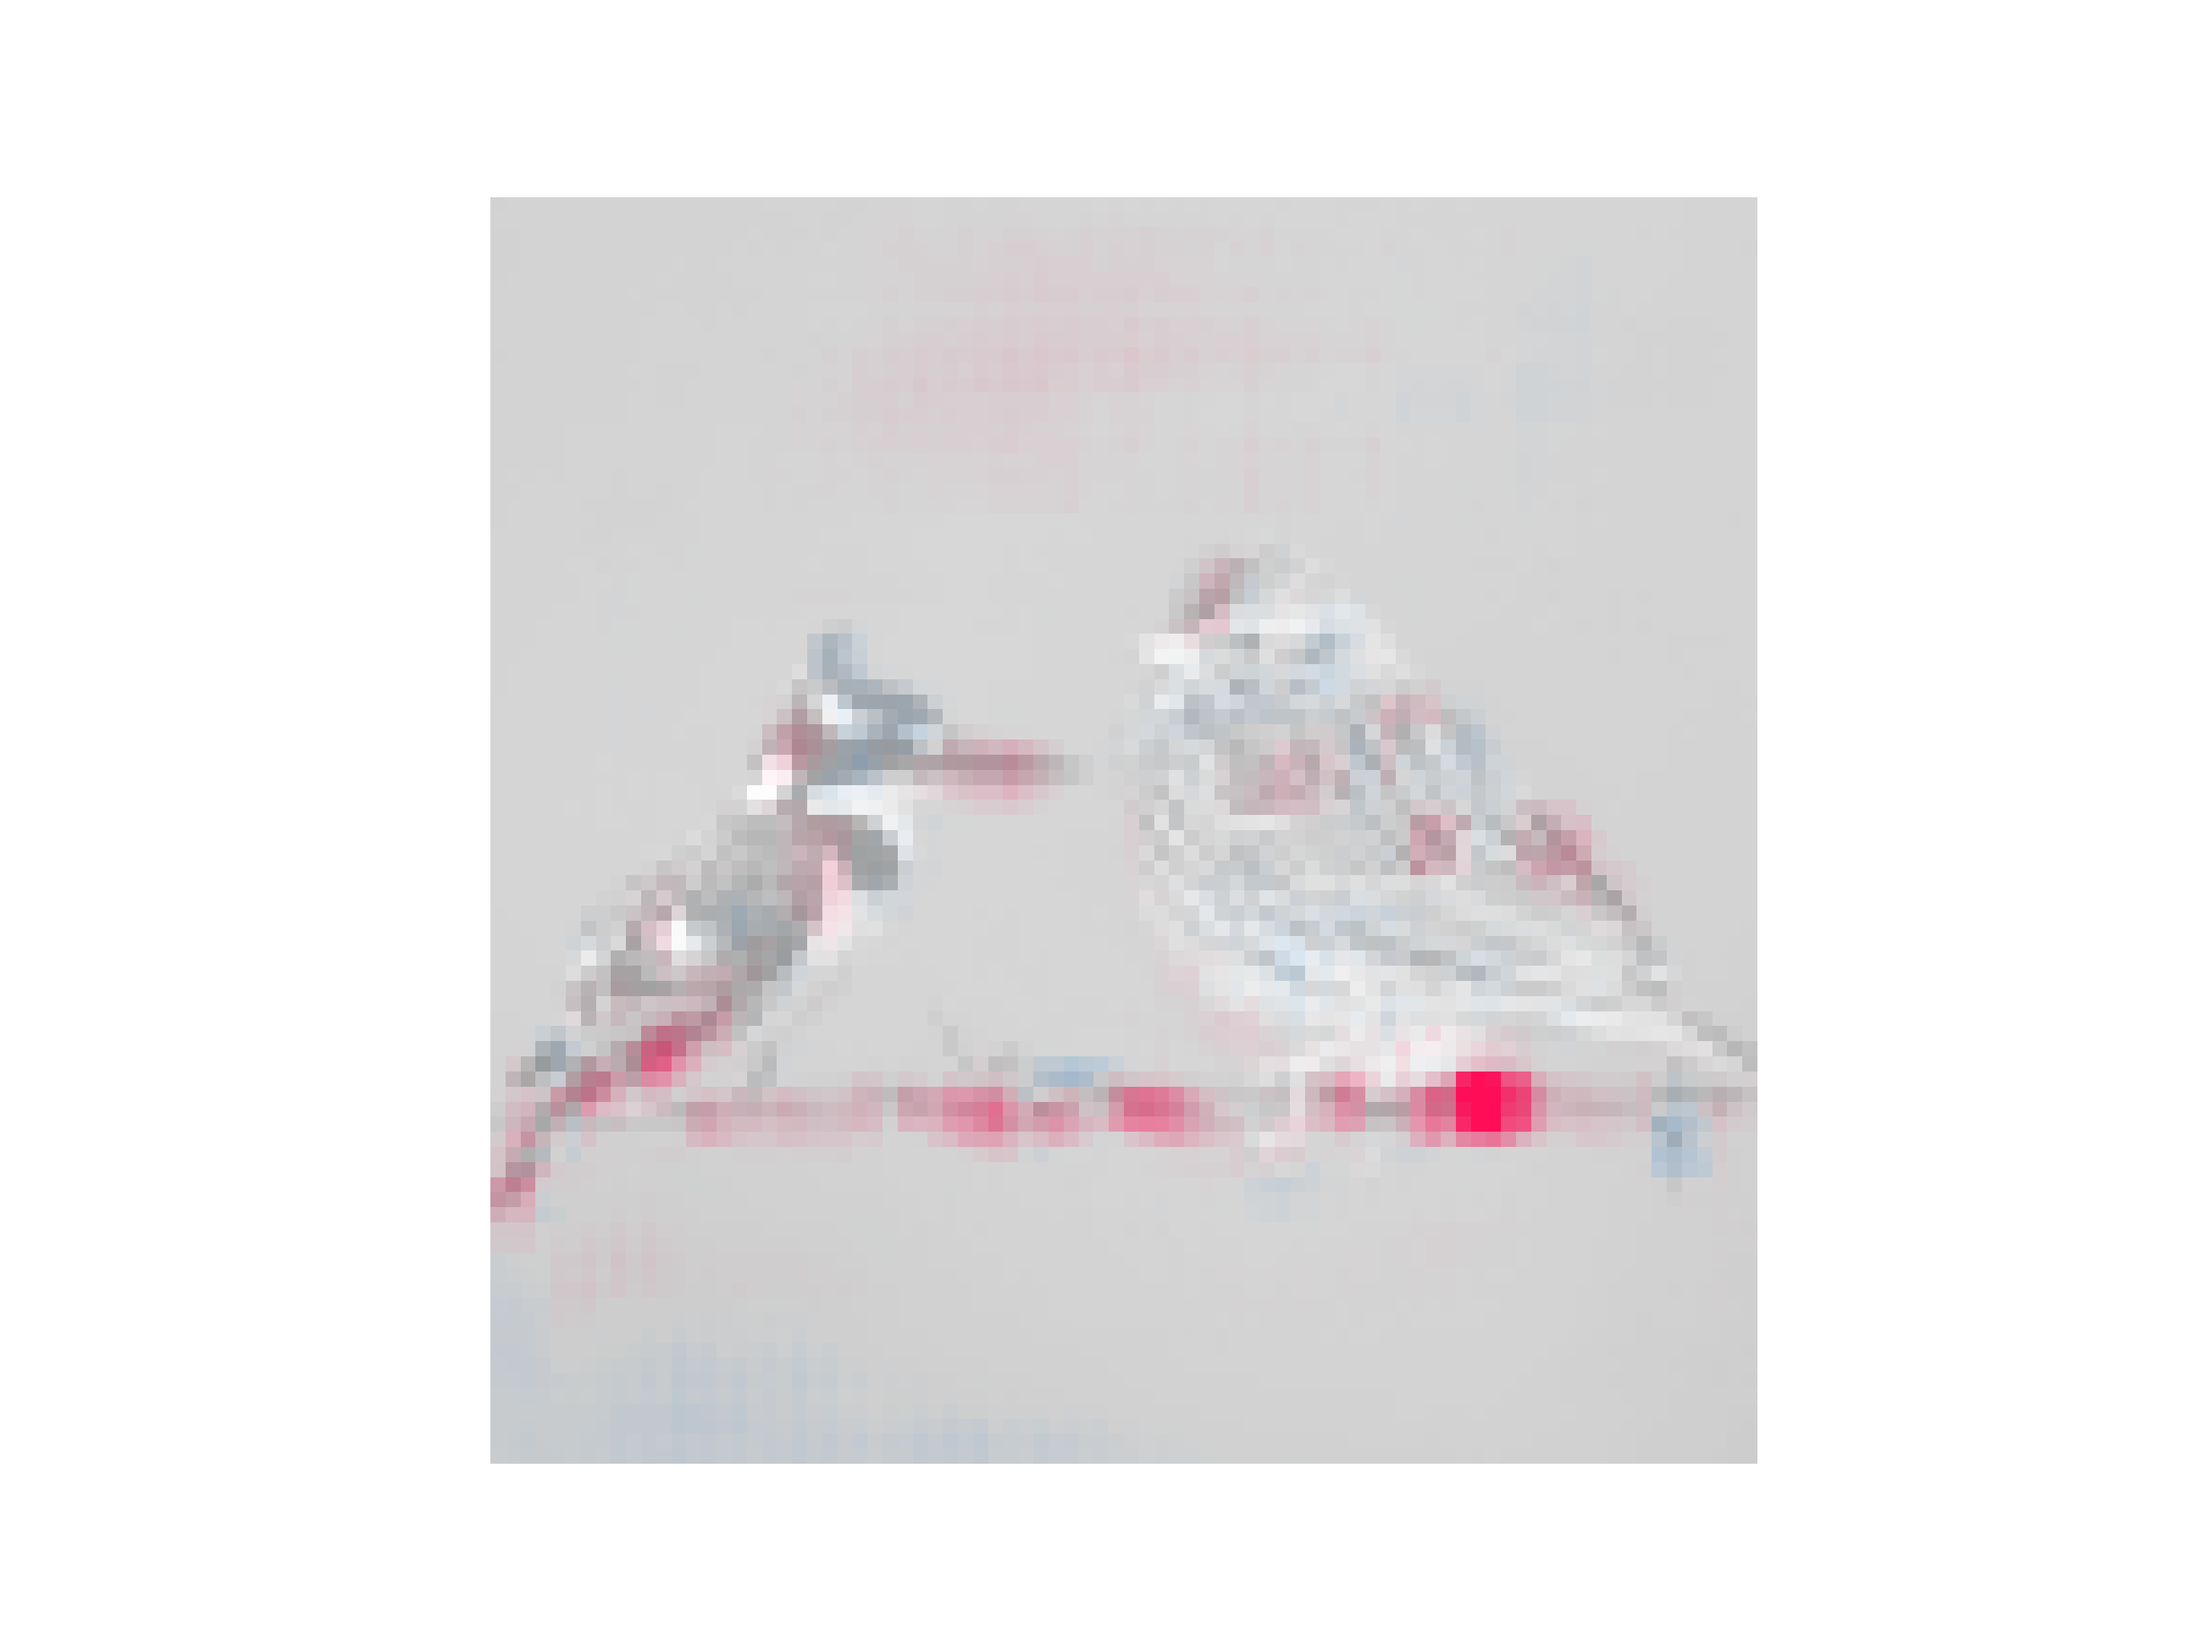
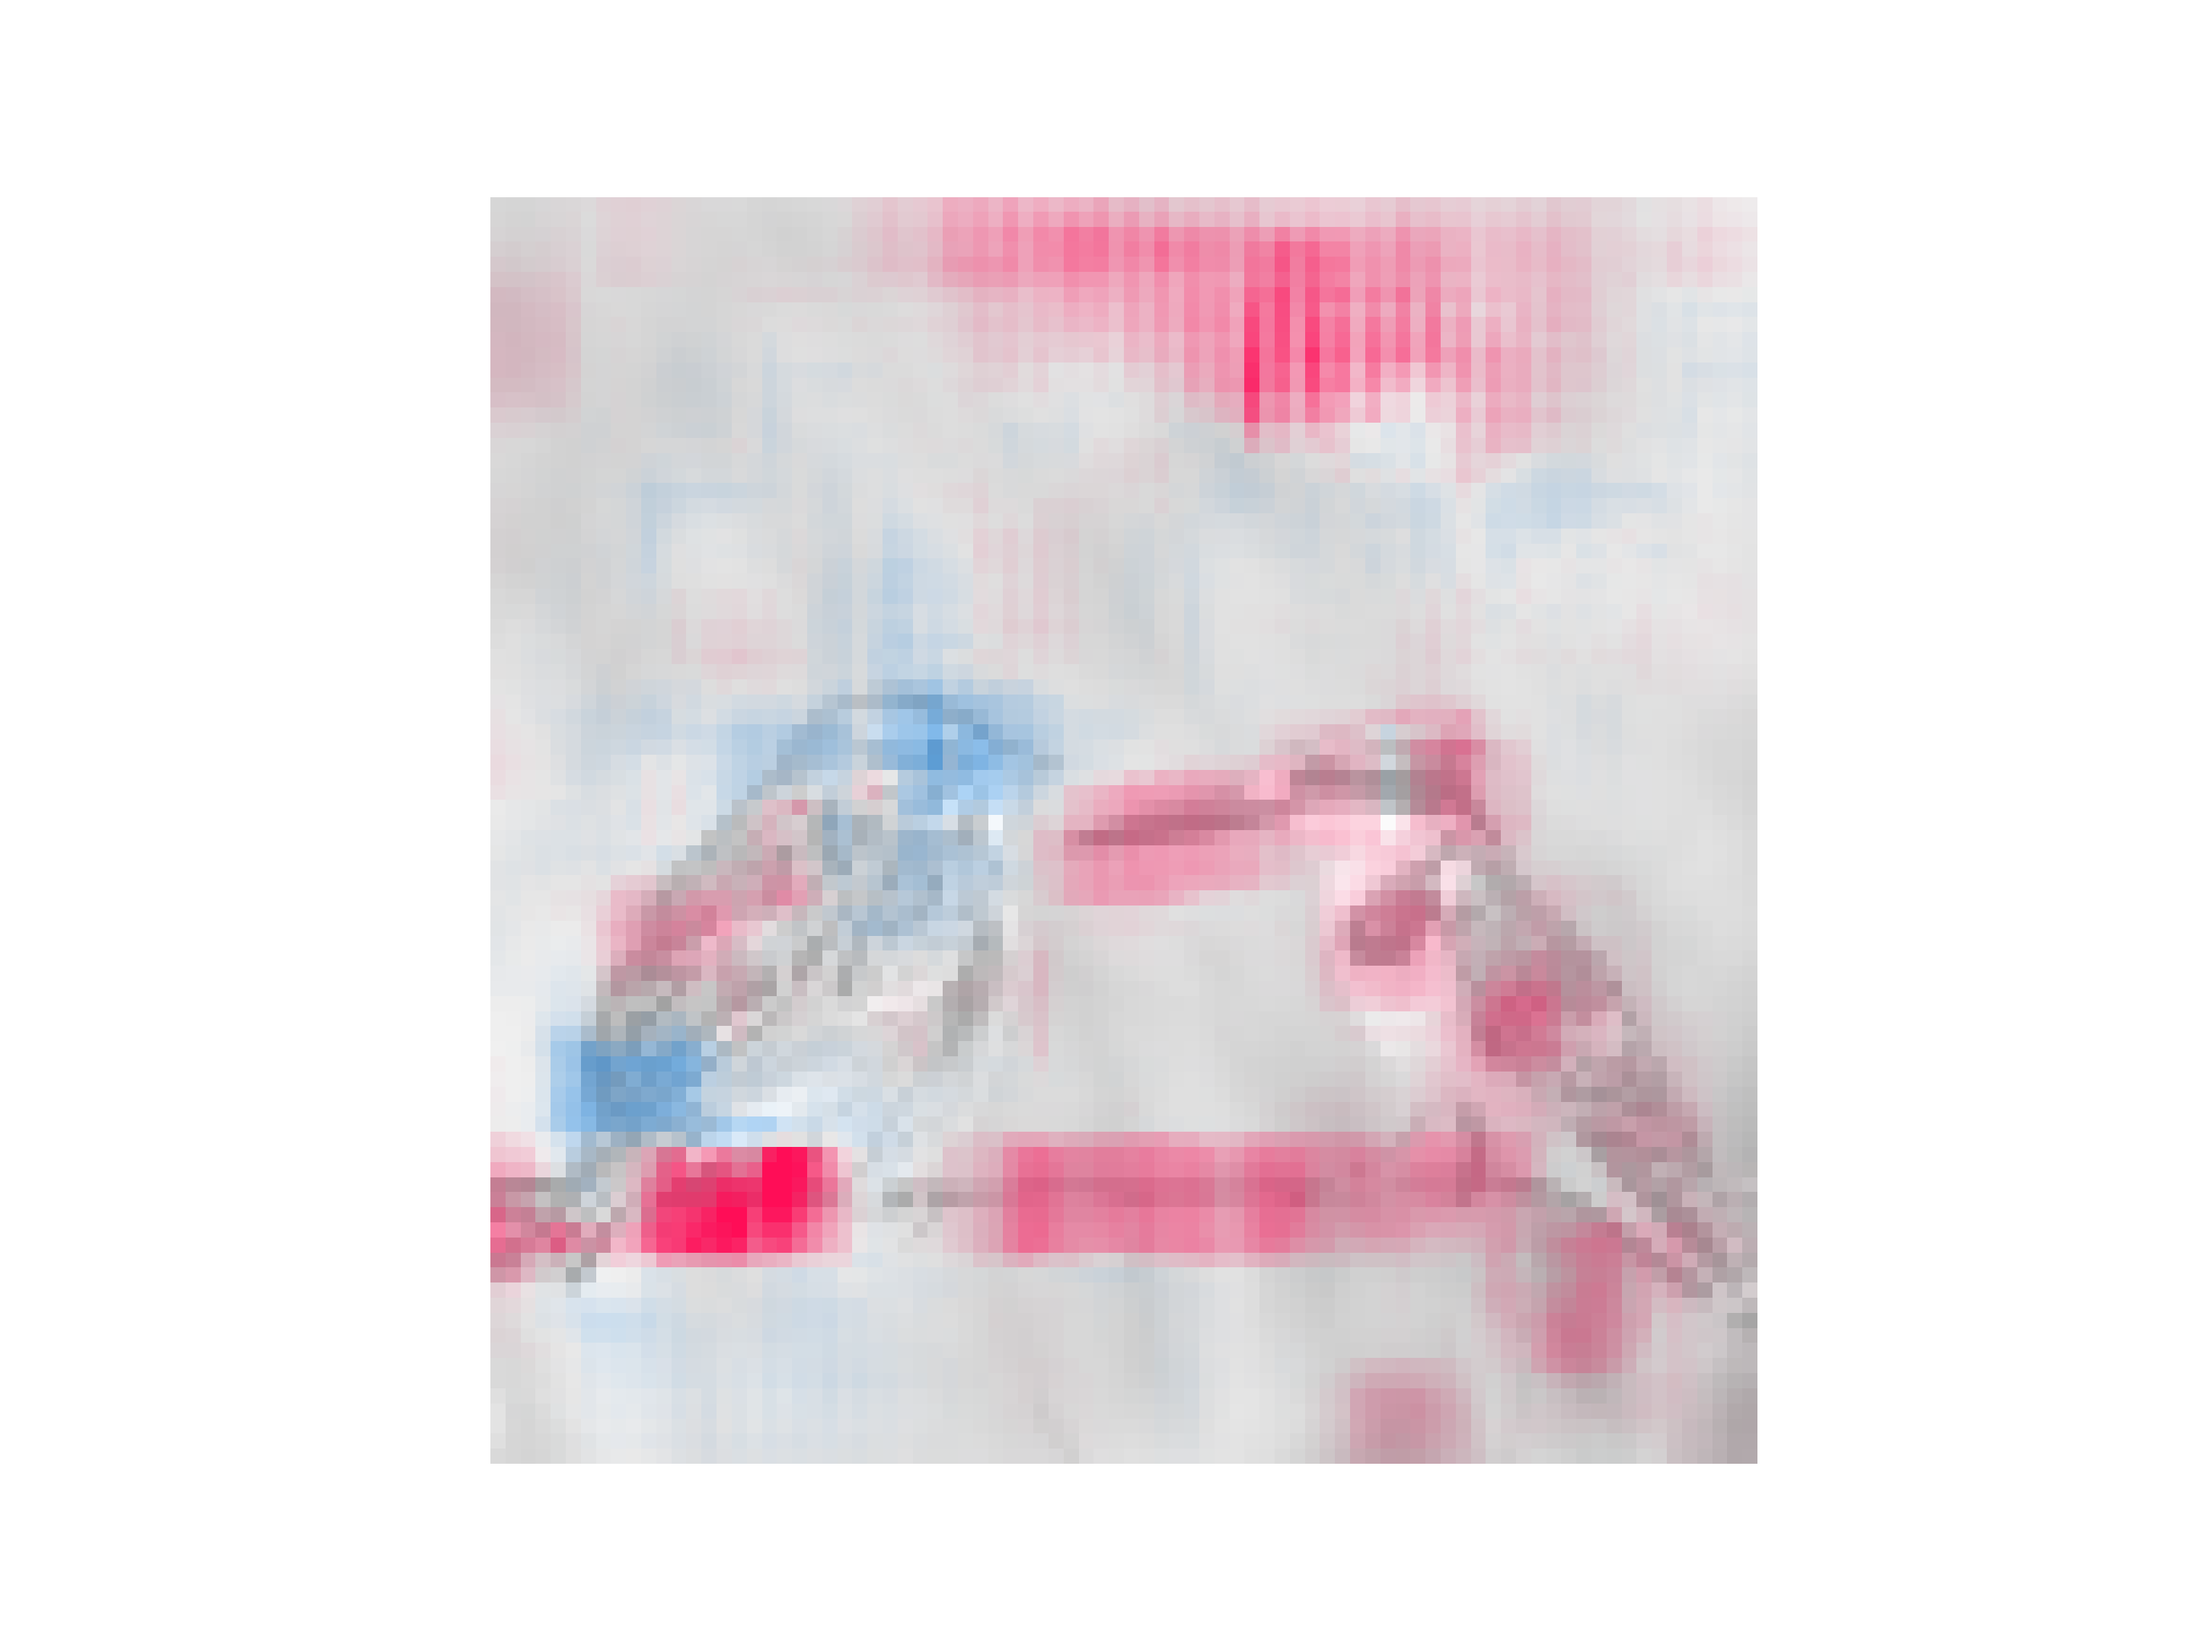
BIRDS.

diff --git a/testbed/miniImagenet_dogs_cars_birds.py b/testbed/miniImagenet_dogs_cars_birds.py
@@ -263,83 +263,83 @@ if __name__ == '__main__':
     exclude_support_data = np.concatenate(
         [support_data_target3, support_data_target4,
          support_data_target5], axis=0)
-    ### C3A XAI
-    ref_pixel = query_pickle[0, 0, 0, :]  # Average background pixel after preprocessing.
-    print(f'Average background pixel: {ref_pixel}')
-    c3a_xai = C3Amodel(base_model.encoder, feature_layer=feature_layer)
-    c3a_target1_scores, c3a_target2_scores = (c3a_xai.image_feature_attribution_c3a(
-        support_data_1=support_data_target1,
-        support_data_2=support_data_target2,
-        support_data_3=exclude_support_data,
-        query=query, ref_pixel=ref_pixel),
-                                              c3a_xai.image_feature_attribution_c3a(
-                                                  support_data_1=support_data_target2,
-                                                  support_data_2=support_data_target1,
-                                                  support_data_3=exclude_support_data,
-                                                  query=query, ref_pixel=ref_pixel))
-    ### Ploting functions.
-    plt = xai_plot(c3a_target1_scores, resize_the_batch(query_pickle)[0])
-    plt.savefig(
-        f"./results/{dataset_str}_feature_attribution_map/c3a_{target1_name}_Features_{input_model_str}_{shot}shot.png",
-        dpi=450)
-    plt = xai_plot(c3a_target2_scores, resize_the_batch(query_pickle)[0])
-    plt.savefig(
-        f"./results/{dataset_str}_feature_attribution_map/c3a_{target2_name}_Features_{input_model_str}_{shot}shot.png",
-        dpi=450)
-    ## Fidelity calculation.
-    c3a_target1_plus_image, c3a_target1_minus_image = generate_masked_images(
-        feature_attributions=c3a_target1_scores, original_image=rgb_query,
-        input_percentile=99.9, mask_threshold=0.5)
-    c3a_target2_plus_image, c3a_target2_minus_image = generate_masked_images(
-        feature_attributions=c3a_target2_scores, original_image=rgb_query,
-        input_percentile=99.9, mask_threshold=0.5)
-    c3a_target1_fidelity_plus, c3a_target1_fidelity_minus = embed.fidelity_scores(
-        episode_support_data, query,
-        resize_the_batch(np.expand_dims(c3a_target1_plus_image, axis=0)),
-        resize_the_batch(np.expand_dims(c3a_target1_minus_image, axis=0)), idx=0)
-    c3a_target2_fidelity_plus, c3a_target2_fidelity_minus = embed.fidelity_scores(
-        episode_support_data, query,
-        resize_the_batch(np.expand_dims(c3a_target2_plus_image, axis=0)),
-        resize_the_batch(np.expand_dims(c3a_target2_minus_image, axis=0)), idx=1)
-    print(f'C3A_{target1_name} -> Fidelity+:{c3a_target1_fidelity_plus}, Fidelity-:{c3a_target1_fidelity_minus}')
-    print(f'C3A_{target2_name} -> Fidelity+:{c3a_target2_fidelity_plus}, Fidelity-:{c3a_target2_fidelity_minus}')
+    # ### C3A XAI
+    # ref_pixel = query_pickle[0, 0, 0, :]  # Average background pixel after preprocessing.
+    # print(f'Average background pixel: {ref_pixel}')
+    # c3a_xai = C3Amodel(base_model.encoder, feature_layer=feature_layer)
+    # c3a_target1_scores, c3a_target2_scores = (c3a_xai.image_feature_attribution_c3a(
+    #     support_data_1=support_data_target1,
+    #     support_data_2=support_data_target2,
+    #     support_data_3=exclude_support_data,
+    #     query=query, ref_pixel=ref_pixel),
+    #                                           c3a_xai.image_feature_attribution_c3a(
+    #                                               support_data_1=support_data_target2,
+    #                                               support_data_2=support_data_target1,
+    #                                               support_data_3=exclude_support_data,
+    #                                               query=query, ref_pixel=ref_pixel))
+    # ### Ploting functions.
+    # plt = xai_plot(c3a_target1_scores, resize_the_batch(query_pickle)[0])
+    # plt.savefig(
+    #     f"./results/{dataset_str}_feature_attribution_map/c3a_{target1_name}_Features_{input_model_str}_{shot}shot.png",
+    #     dpi=450)
+    # plt = xai_plot(c3a_target2_scores, resize_the_batch(query_pickle)[0])
+    # plt.savefig(
+    #     f"./results/{dataset_str}_feature_attribution_map/c3a_{target2_name}_Features_{input_model_str}_{shot}shot.png",
+    #     dpi=450)
+    # ## Fidelity calculation.
+    # c3a_target1_plus_image, c3a_target1_minus_image = generate_masked_images(
+    #     feature_attributions=c3a_target1_scores, original_image=rgb_query,
+    #     input_percentile=99.9, mask_threshold=0.5)
+    # c3a_target2_plus_image, c3a_target2_minus_image = generate_masked_images(
+    #     feature_attributions=c3a_target2_scores, original_image=rgb_query,
+    #     input_percentile=99.9, mask_threshold=0.5)
+    # c3a_target1_fidelity_plus, c3a_target1_fidelity_minus = embed.fidelity_scores(
+    #     episode_support_data, query,
+    #     resize_the_batch(np.expand_dims(c3a_target1_plus_image, axis=0)),
+    #     resize_the_batch(np.expand_dims(c3a_target1_minus_image, axis=0)), idx=0)
+    # c3a_target2_fidelity_plus, c3a_target2_fidelity_minus = embed.fidelity_scores(
+    #     episode_support_data, query,
+    #     resize_the_batch(np.expand_dims(c3a_target2_plus_image, axis=0)),
+    #     resize_the_batch(np.expand_dims(c3a_target2_minus_image, axis=0)), idx=1)
+    # print(f'C3A_{target1_name} -> Fidelity+:{c3a_target1_fidelity_plus}, Fidelity-:{c3a_target1_fidelity_minus}')
+    # print(f'C3A_{target2_name} -> Fidelity+:{c3a_target2_fidelity_plus}, Fidelity-:{c3a_target2_fidelity_minus}')
+    # #
+    # ### ProtoShotXAI
+    # protoshot_xai = ProtoShotXAI(base_model.encoder, feature_layer=flatten_layer)
+    # protoshot_target1_scores, protoshot_target2_scores = (protoshot_xai.image_feature_attribution(
+    #     support_data=support_data_target1, query=query, ref_pixel=ref_pixel),
+    #                                                       protoshot_xai.image_feature_attribution(
+    #                                                           support_data=support_data_target2, query=query,
+    #                                                           ref_pixel=ref_pixel))
+    # ### Ploting functions.
+    # plt = xai_plot(protoshot_target1_scores, resize_the_batch(query_pickle)[0])
+    # plt.savefig(
+    #     f"./results/{dataset_str}_feature_attribution_map/protoshot_{target1_name}_Features_{input_model_str}_{shot}shot.png",
+    #     dpi=450)
     #
-    ### ProtoShotXAI
-    protoshot_xai = ProtoShotXAI(base_model.encoder, feature_layer=flatten_layer)
-    protoshot_target1_scores, protoshot_target2_scores = (protoshot_xai.image_feature_attribution(
-        support_data=support_data_target1, query=query, ref_pixel=ref_pixel),
-                                                          protoshot_xai.image_feature_attribution(
-                                                              support_data=support_data_target2, query=query,
-                                                              ref_pixel=ref_pixel))
-    ### Ploting functions.
-    plt = xai_plot(protoshot_target1_scores, resize_the_batch(query_pickle)[0])
-    plt.savefig(
-        f"./results/{dataset_str}_feature_attribution_map/protoshot_{target1_name}_Features_{input_model_str}_{shot}shot.png",
-        dpi=450)
-
-    plt = xai_plot(protoshot_target2_scores, resize_the_batch(query_pickle)[0])
-    plt.savefig(
-        f"./results/{dataset_str}_feature_attribution_map/protoshot_{target2_name}_Features_{input_model_str}_{shot}shot.png",
-        dpi=450)
-    ## Fidelity calculation.
-    protoshot_target1_plus_image, protoshot_target1_minus_image = generate_masked_images(
-        feature_attributions=protoshot_target1_scores, original_image=rgb_query,
-        input_percentile=99.9, mask_threshold=0.5)
-    protoshot_target2_plus_image, protoshot_target2_minus_image = generate_masked_images(
-        feature_attributions=protoshot_target2_scores, original_image=rgb_query,
-        input_percentile=99.9, mask_threshold=0.5)
-    protoshot_target1_fidelity_plus, protoshot_target1_fidelity_minus = embed.fidelity_scores(
-        episode_support_data, query,
-        resize_the_batch(np.expand_dims(protoshot_target1_plus_image, axis=0)),
-        resize_the_batch(np.expand_dims(protoshot_target1_minus_image, axis=0)), idx=0)
-    protoshot_target2_fidelity_plus, protoshot_target2_fidelity_minus = embed.fidelity_scores(
-        episode_support_data, query,
-        resize_the_batch(np.expand_dims(protoshot_target2_plus_image, axis=0)),
-        resize_the_batch(np.expand_dims(protoshot_target2_minus_image, axis=0)), idx=1)
-    print(
-        f'ProtoShotXAI_{target1_name} -> Fidelity+:{protoshot_target1_fidelity_plus}, Fidelity-:{protoshot_target1_fidelity_minus}')
-    print(
-        f'ProtoShotXAI_{target2_name} -> Fidelity+:{protoshot_target2_fidelity_plus}, Fidelity-:{protoshot_target2_fidelity_minus}')
+    # plt = xai_plot(protoshot_target2_scores, resize_the_batch(query_pickle)[0])
+    # plt.savefig(
+    #     f"./results/{dataset_str}_feature_attribution_map/protoshot_{target2_name}_Features_{input_model_str}_{shot}shot.png",
+    #     dpi=450)
+    # ## Fidelity calculation.
+    # protoshot_target1_plus_image, protoshot_target1_minus_image = generate_masked_images(
+    #     feature_attributions=protoshot_target1_scores, original_image=rgb_query,
+    #     input_percentile=99.9, mask_threshold=0.5)
+    # protoshot_target2_plus_image, protoshot_target2_minus_image = generate_masked_images(
+    #     feature_attributions=protoshot_target2_scores, original_image=rgb_query,
+    #     input_percentile=99.9, mask_threshold=0.5)
+    # protoshot_target1_fidelity_plus, protoshot_target1_fidelity_minus = embed.fidelity_scores(
+    #     episode_support_data, query,
+    #     resize_the_batch(np.expand_dims(protoshot_target1_plus_image, axis=0)),
+    #     resize_the_batch(np.expand_dims(protoshot_target1_minus_image, axis=0)), idx=0)
+    # protoshot_target2_fidelity_plus, protoshot_target2_fidelity_minus = embed.fidelity_scores(
+    #     episode_support_data, query,
+    #     resize_the_batch(np.expand_dims(protoshot_target2_plus_image, axis=0)),
+    #     resize_the_batch(np.expand_dims(protoshot_target2_minus_image, axis=0)), idx=1)
+    # print(
+    #     f'ProtoShotXAI_{target1_name} -> Fidelity+:{protoshot_target1_fidelity_plus}, Fidelity-:{protoshot_target1_fidelity_minus}')
+    # print(
+    #     f'ProtoShotXAI_{target2_name} -> Fidelity+:{protoshot_target2_fidelity_plus}, Fidelity-:{protoshot_target2_fidelity_minus}')
 
     ## LIME XAI
     explainer = lime_image.LimeImageExplainer()

diff --git a/architectures/c3a.py b/architectures/c3a.py
@@ -144,7 +144,7 @@ class C3Amodel:
 
     def image_feature_attribution_c3a(self, support_data_1, support_data_2,
                                       support_data_3,
-                                      query, ref_pixel, pad=2, alpha=0.5, progress_bar=True):
+                                      query, ref_pixel, pad=4, alpha=0.5, progress_bar=True):
         rows = np.shape(query)[1]
         cols = np.shape(query)[2]
         chnls = np.shape(query)[3]
